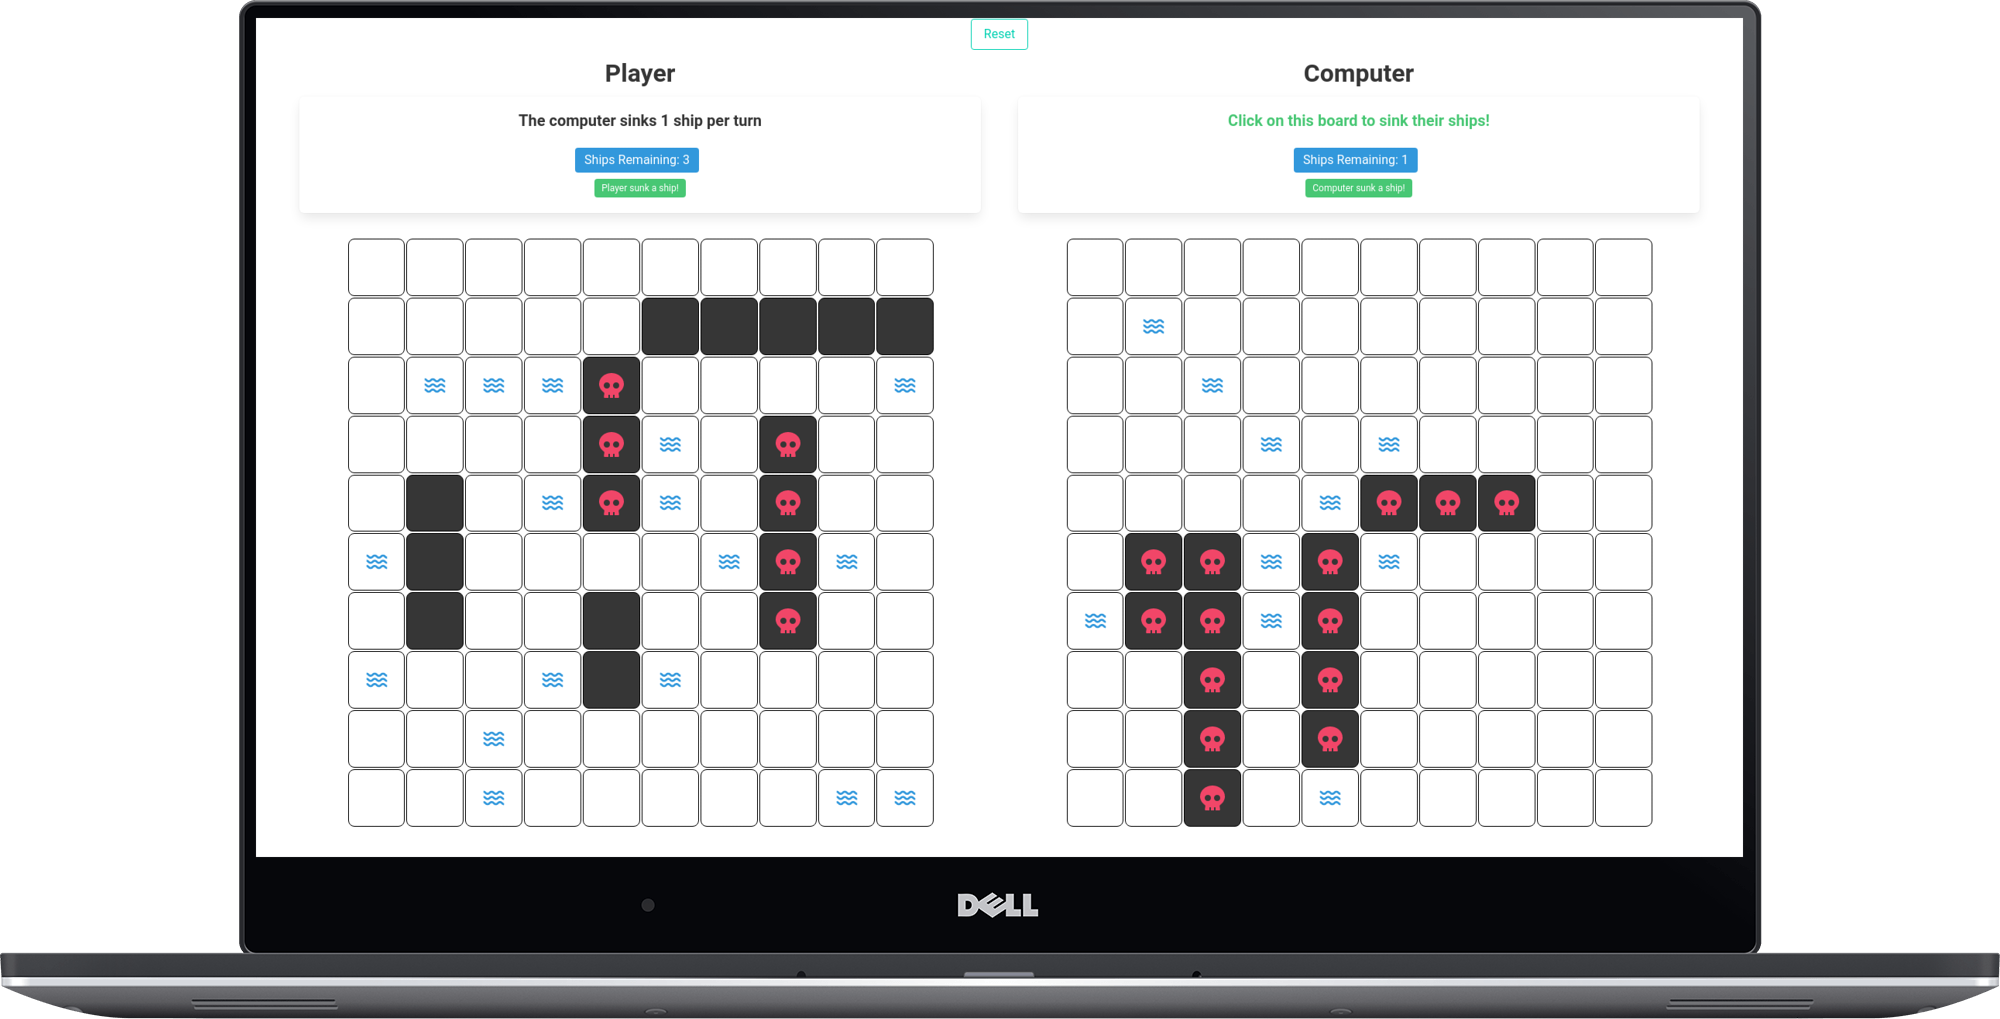
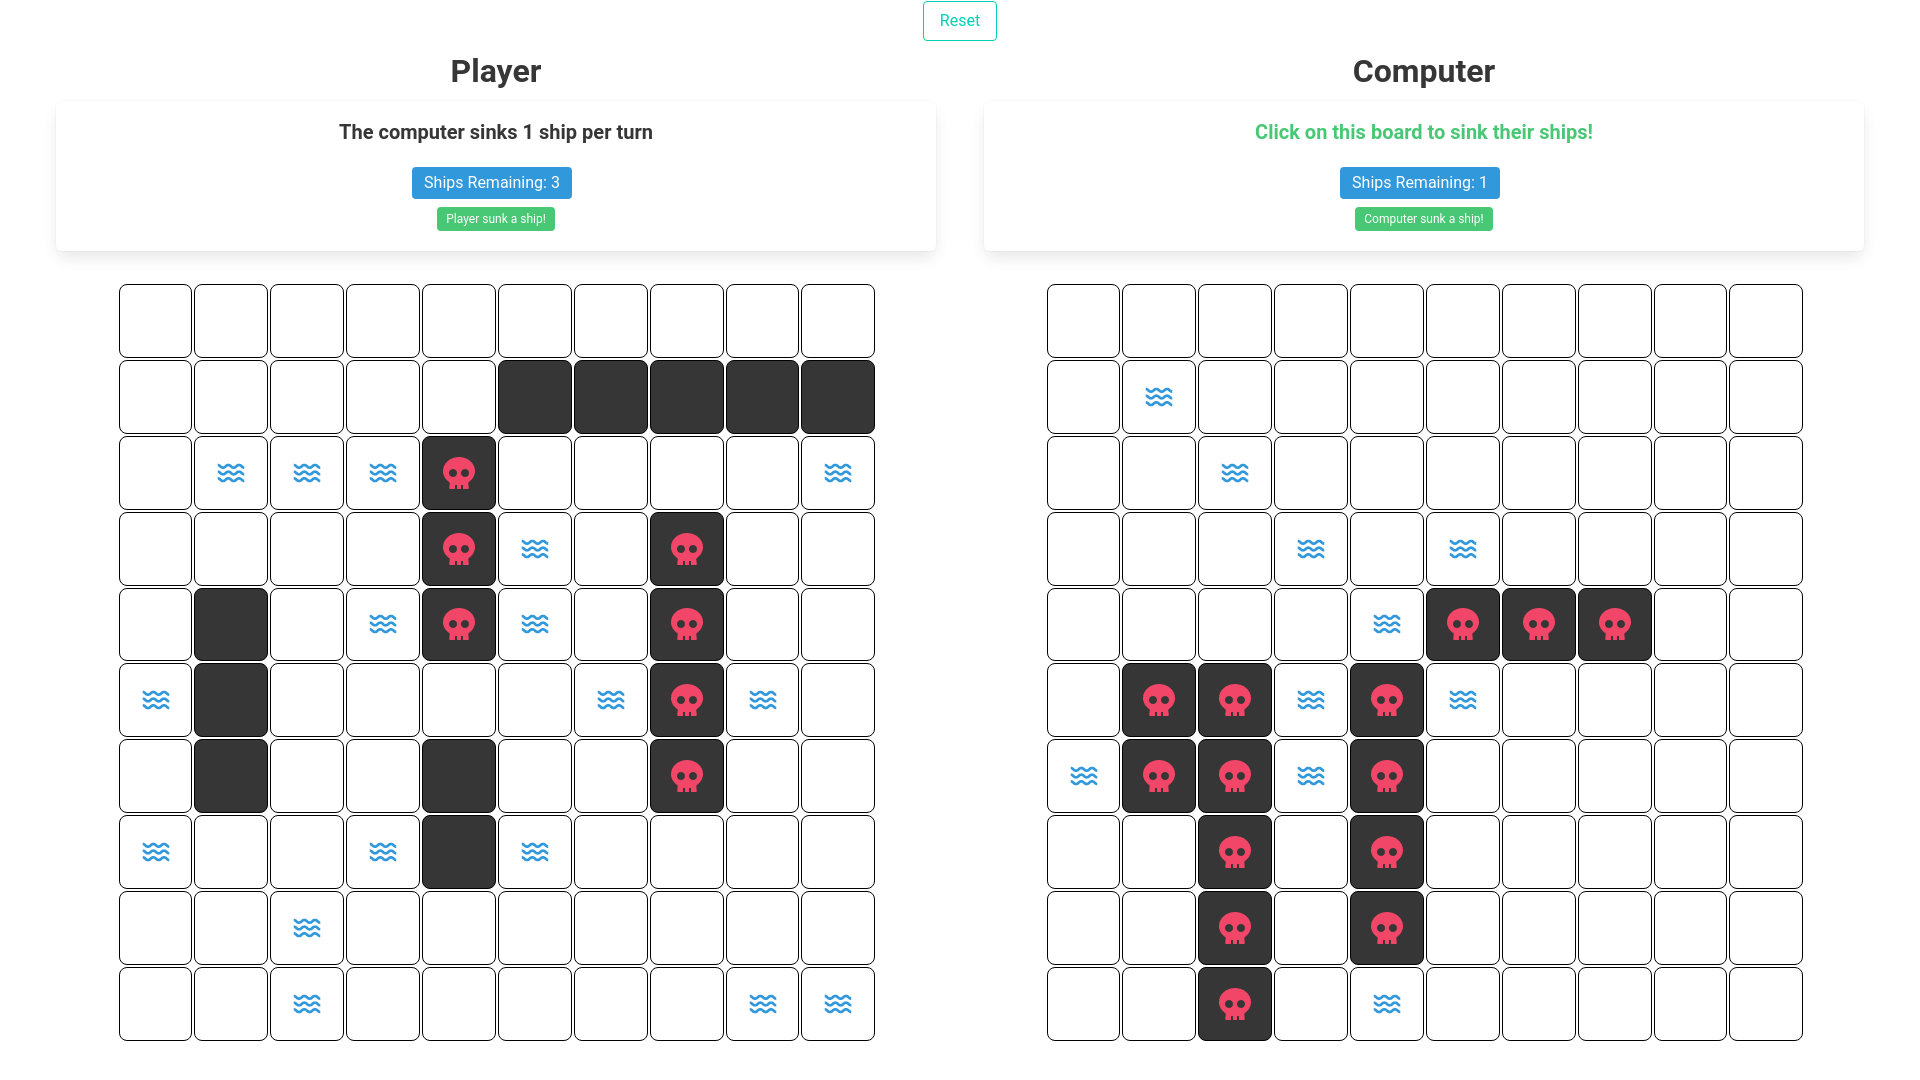
Update Battleship screenshot

diff --git a/content/projects.js b/content/projects.js
@@ -30,7 +30,7 @@ const projects = [
     description: faker.lorem.paragraph(),
     imageProps: {
       src: '/images/projects/battleship.png',
-      format: 'xps15',
+      format: 'screenshot',
     },
     links: {
       github: 'https://github.com/rankoliang/battleship',
